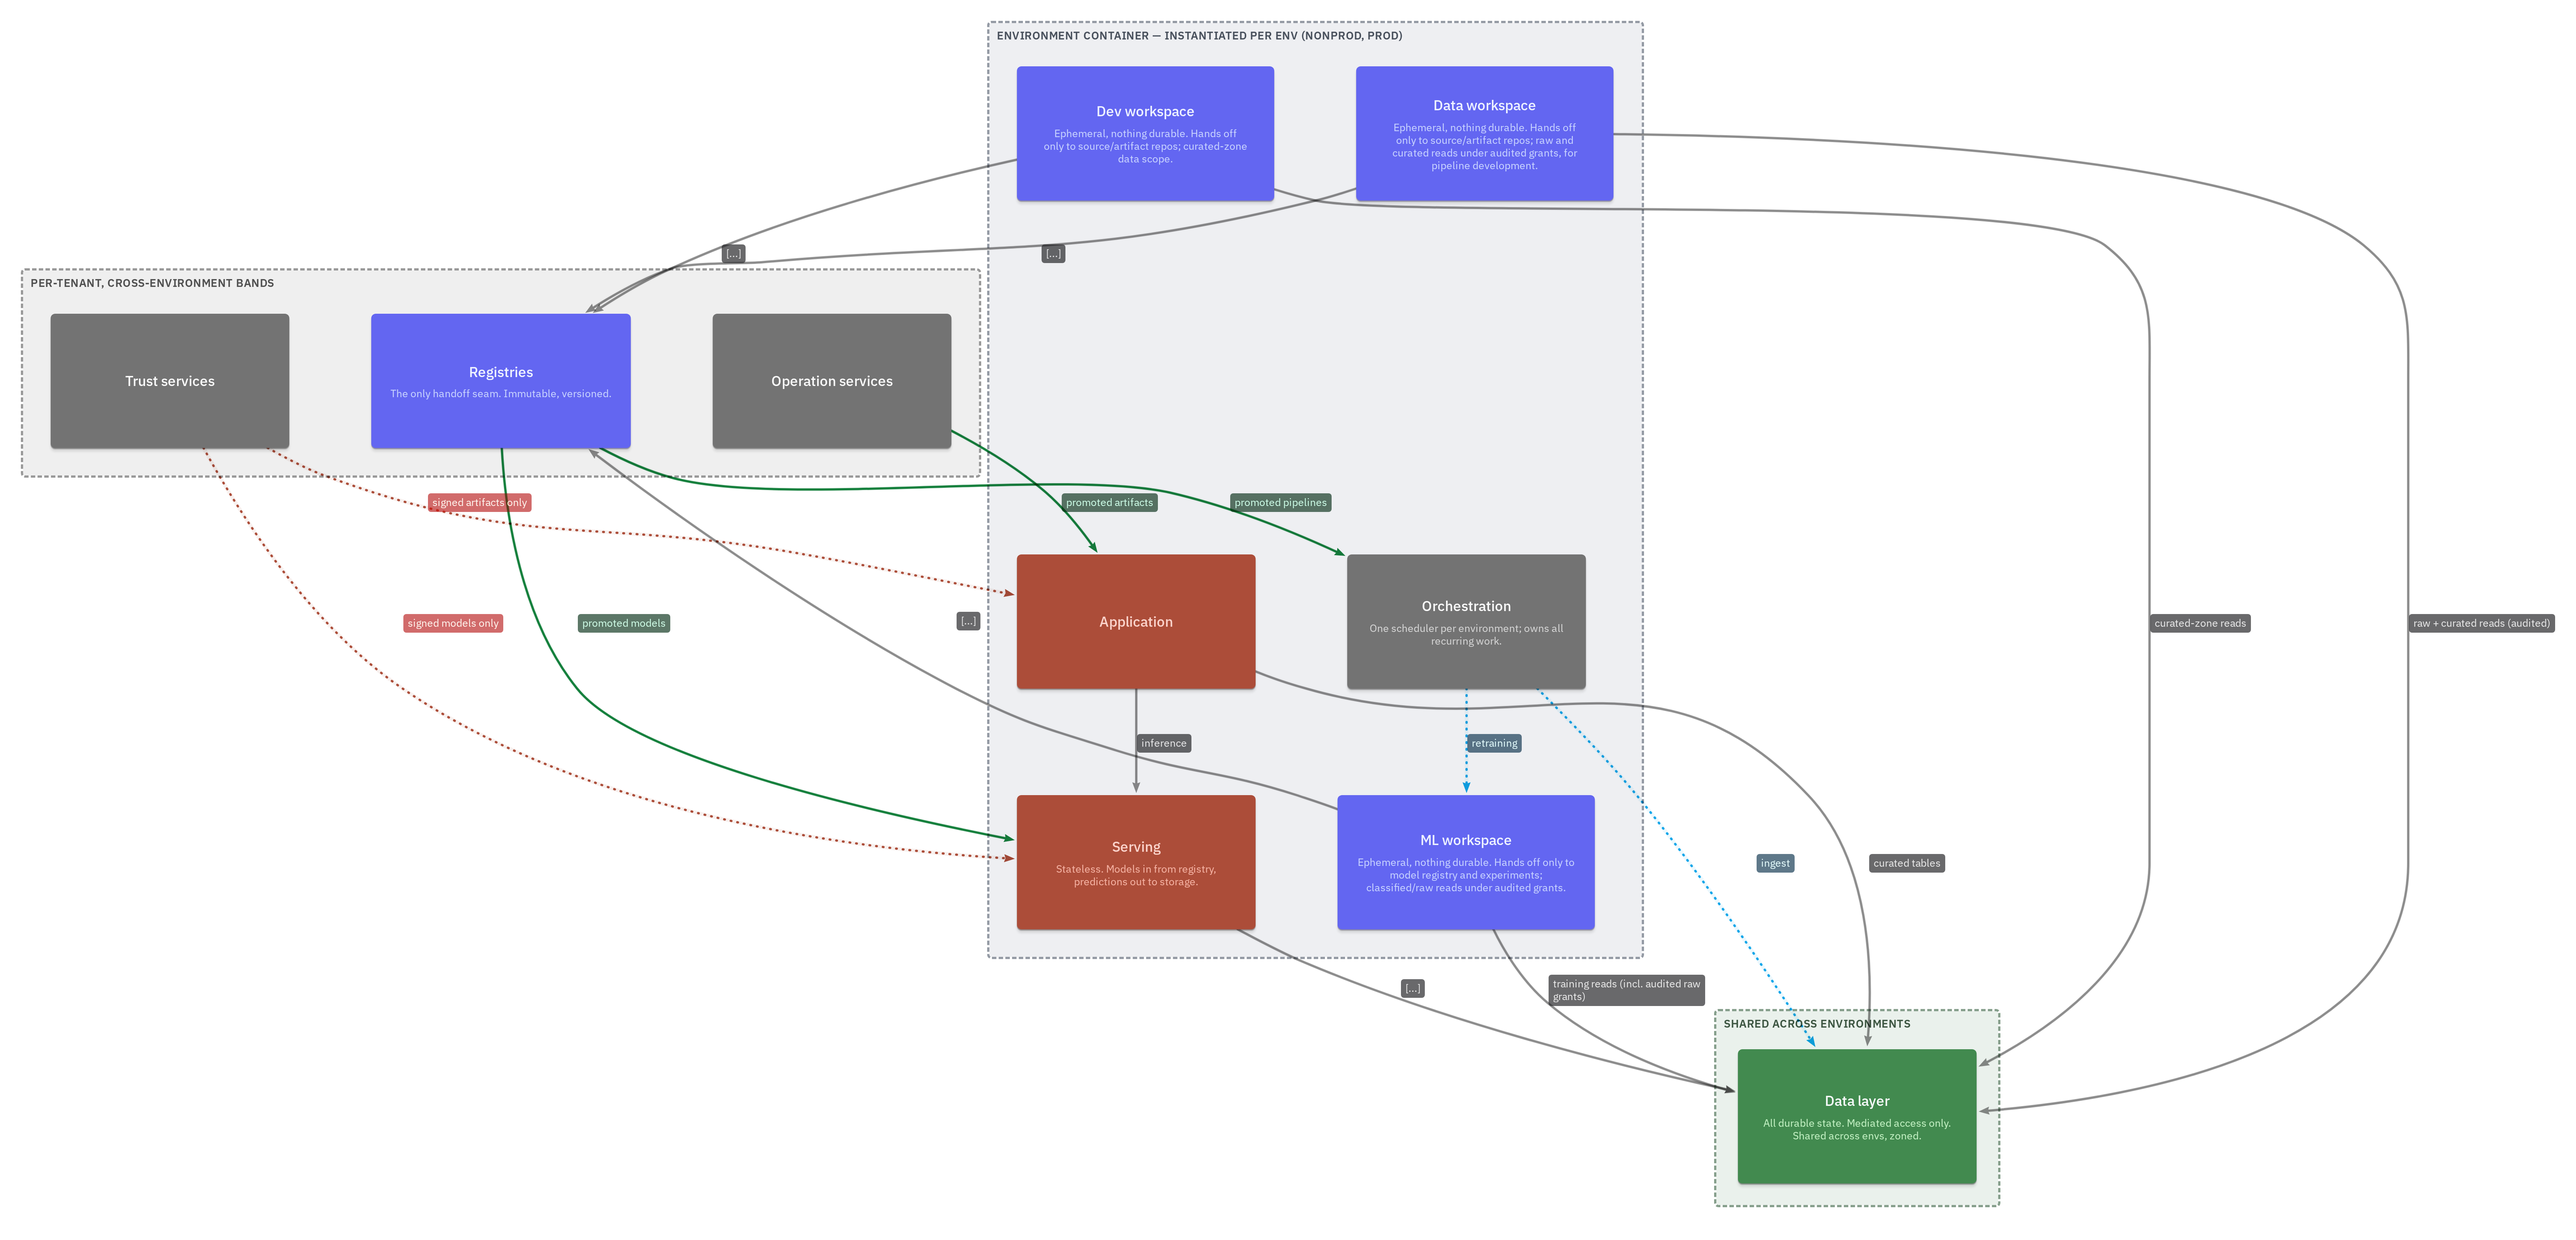
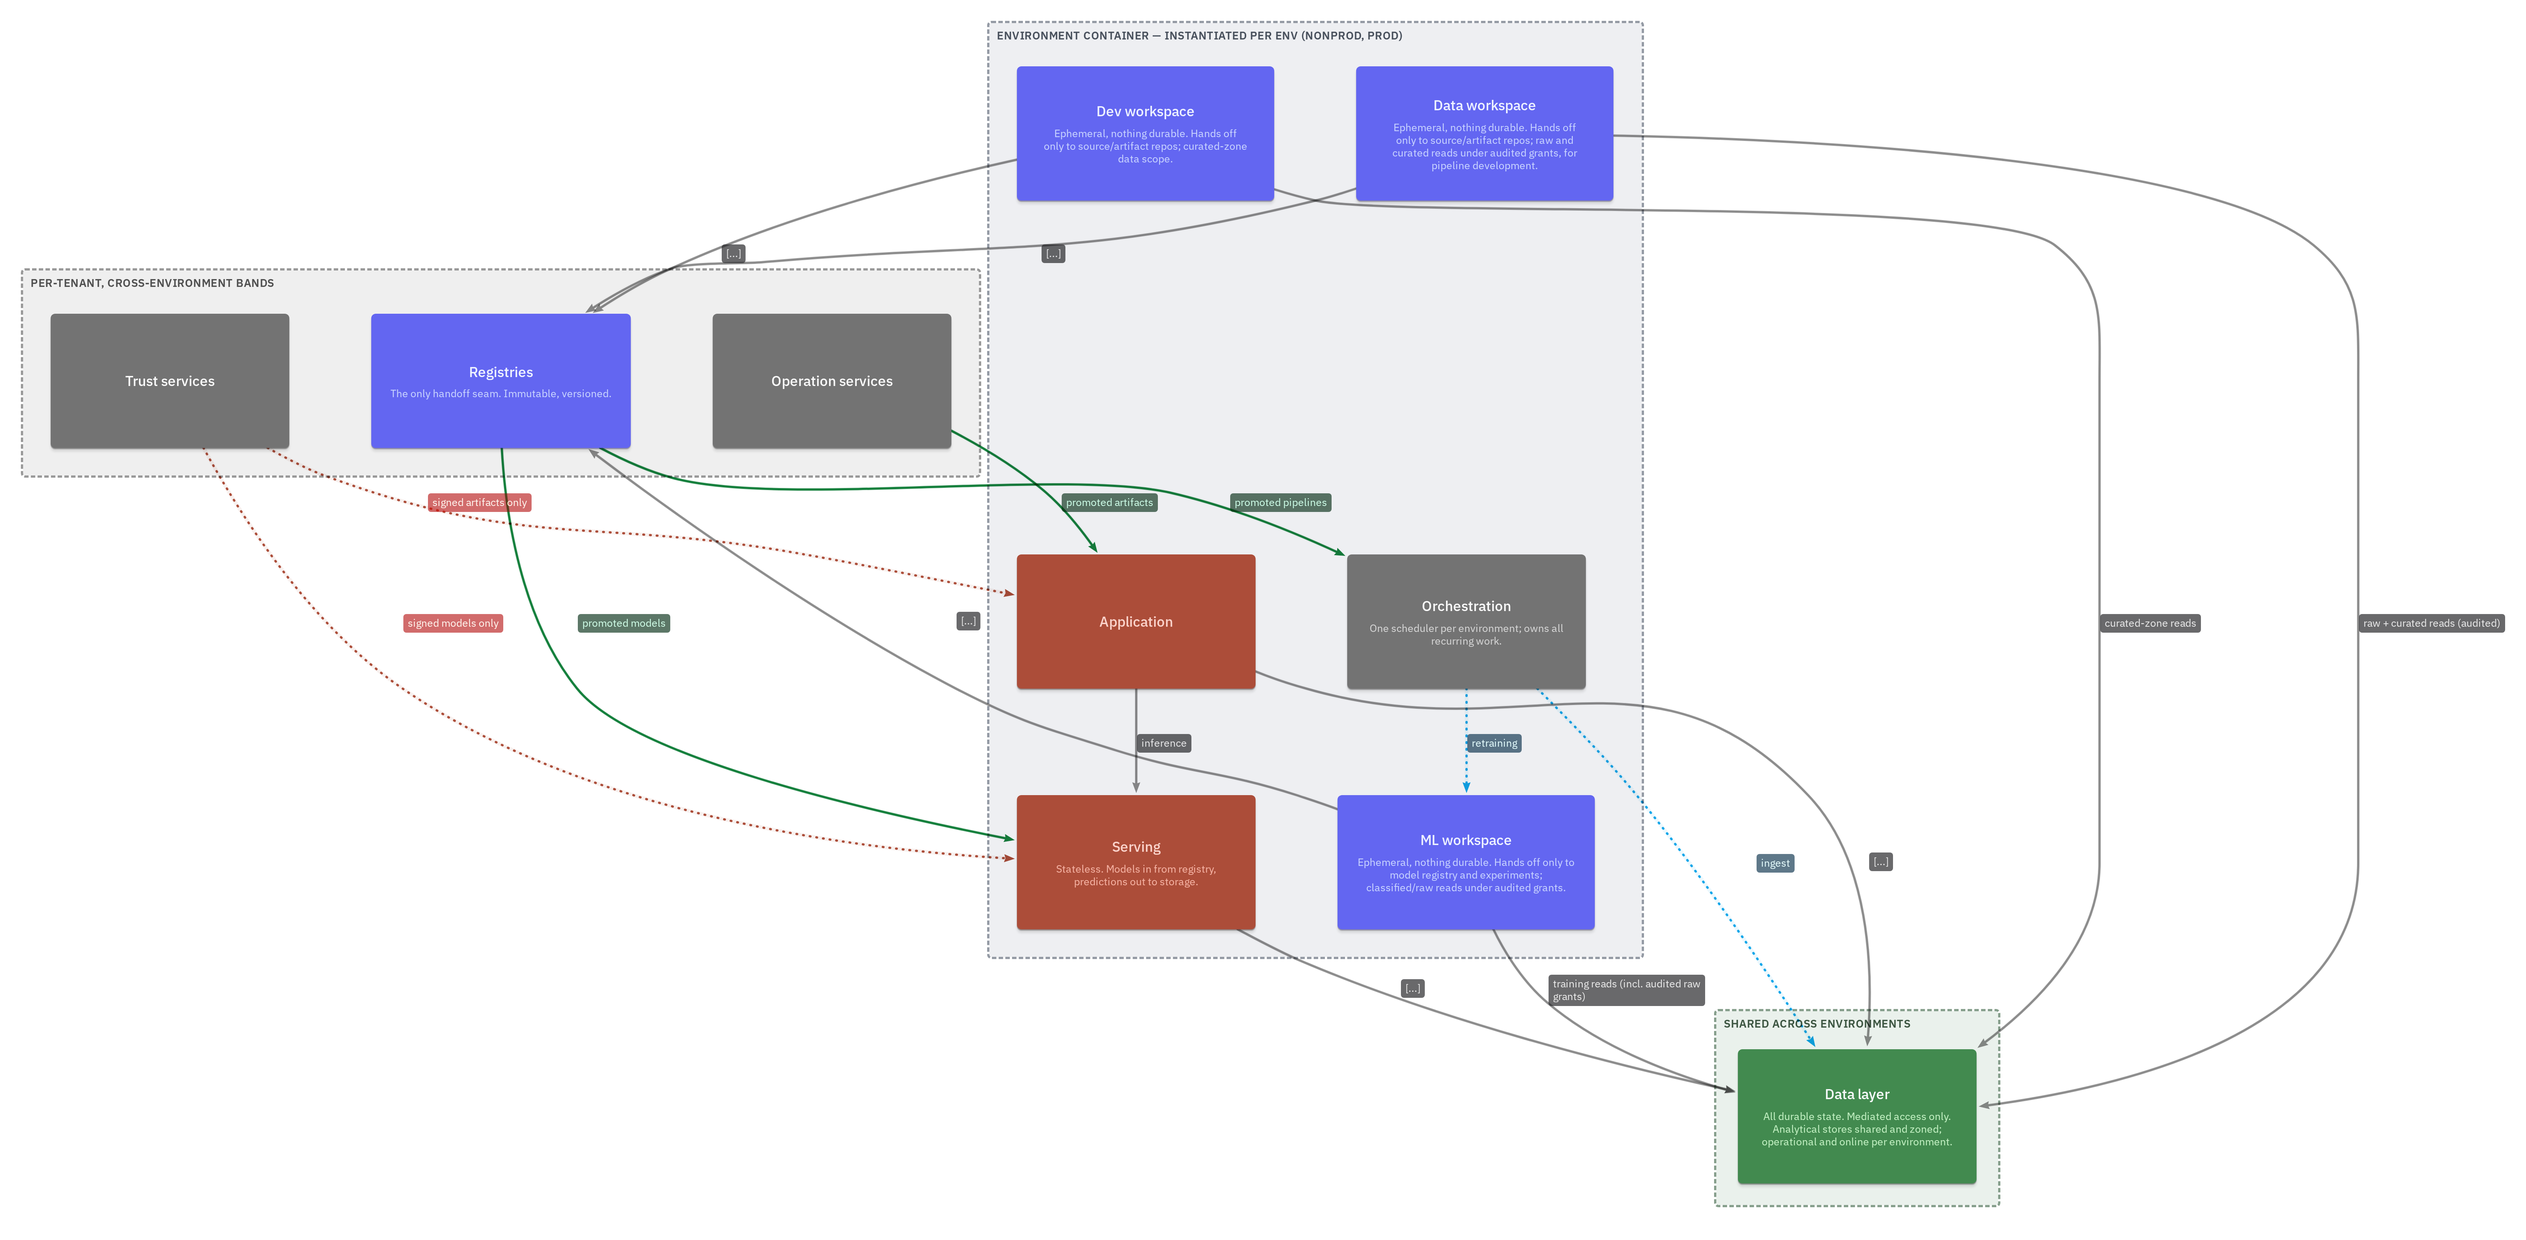
Data layer refined

diff --git a/adr/0006-shared-zoned-data-layer.md b/adr/0006-shared-zoned-data-layer.md
@@ -2,17 +2,90 @@
 id: ADR-0006
 status: proposed
 date: 2026-08-31
-affects: [KYP-T-DATA, KYP-T-DATA-22, KYP-T-DATA-25]
+affects: [KYP-T-DATA, KYP-T-DATA-03, KYP-T-DATA-04, KYP-T-DATA-07, KYP-T-DATA-22, KYP-T-DATA-25]
 ---
-# One data layer shared across environments, protected by zoning and access policy
+# One data layer: sharing follows store class, access follows purpose
+
 ## Context
-Data is not copied per environment.
+Copying the whole data layer per environment multiplies per-tenant cost and
+is unnecessary for most of it. But "one shared data layer" overstates the
+case: an application's operational state and the stores that serve runtimes
+are shared with nothing. Separately, a customer security review asks
+directly whether production data is used in non-production (CAIQ DG-06.1,
+ISO/IEC 27001 A.8.33), and that question is about testing software — not
+about the analytics the customer engaged us to perform.
+
 ## Decision
-Zones: raw, curated (writable only by prod orchestration identity), per-env sandbox.
-Nonprod reads per classification; writes only to its sandbox; grants audited; predictions
-env-labelled.
+
+### Sharing follows store.class
+- analytical (object store, tables) — one shared instance, zoned. Not
+  copied per environment; this is where the cost argument applies.
+- operational (application database) — one instance per environment.
+- online (indexes, feature and vector stores, predictions) — one instance
+  per environment, since they serve per-environment runtimes.
+- timeseries — the primary takes ingestion writes, consumers read through
+  a read-only path, and nonprod writes go to a separate instance. Which
+  topology provides that is a binding decision, not a model element.
+
+`shared` metadata therefore belongs on individual stores, never on the
+data layer as a whole.
+
+### Zones, in the shared analytical stores
+raw, curated, and one sandbox per environment.
+- curated is writable only by the prod orchestration identity
+- nonprod writes only to its own sandbox
+- every cross-zone grant is audited
+
+### Access follows purpose, not environment
+1. **Analytics and model development on the tenant's own data** is what the
+   platform is for. It uses real curated and raw data, governed by
+   classification and audited grants
+   ([ADR-0012](0012-split-dev-ml-workspaces.md),
+   [ADR-0015](0015-data-engineering-workspace.md)). Synthetic data is not a
+   substitute: a model for this customer's plant cannot be developed on
+   invented values.
+2. **Developing and testing the platform's own software** is a different
+   purpose and does not need real customer data. It uses synthetic data or
+   masked derivatives carrying no re-identifying fields. Real production
+   data for this purpose requires customer consent naming the datasets,
+   stating the purpose and carrying an expiry, recorded in the tenant
+   registry with every access audited.
+   - Serving and pipeline development: synthetic; where a real read is
+     unavoidable it is read-only against an immutable source.
+   - Application development: a masked dump into that environment's own
+     operational database; unmasked only under consent.
+
+### Limits that hold regardless
+- Nonprod never writes the curated zone.
+- Development reads are read-only against sources that cannot be modified
+  — the same principle as the object store's immutability row and the
+  time-series read path.
+- Data under consent stays in the tenant plane, is not copied to another
+  environment or tenant, and is deleted when the consent expires.
+
 ## Consequences
-Environment boundary becomes authorization correctness; shared failure domain across envs
-(managed object storage mitigates for cloud tenants); query engine needs workload isolation.
+- The environment boundary is authorization correctness rather than
+  infrastructure; the cross-zone grant log is the standing evidence.
+- The shared failure domain covers the analytical stores only. Managed
+  object storage mitigates it for cloud tenants; catalog, query engine and
+  the rest stay self-run.
+- The query engine needs workload isolation between the prod application
+  and nonprod exploration.
+- DG-06.1 has a precise answer: production data serves the analytics the
+  customer engaged us for, and is not used to test our software except
+  under the customer's documented, expiring authorization.
+- Someone must produce and maintain the synthetic and masked datasets.
+  Without them the default is unusable, consent becomes routine, and the
+  exception turns into a habit.
+- The tenant registry record
+  ([ADR-0013](0013-tenant-registry-record-schema.md)) grows a consents
+  section.
+
 ## Rejected alternatives
-Per-environment data copies.
+- Copying the analytical stores per environment: multiplies per-tenant
+  cost, which this decision and [ADR-0005](0005-two-environments.md) exist
+  to avoid.
+- Treating the whole data layer as shared: false for operational and
+  online stores, and it answers DG-06.1 with a bare "yes".
+- Synthetic data for model development: not a substitute for real plant
+  data, and it would forbid the platform's own purpose.

diff --git a/docs/design-brief.md b/docs/design-brief.md
@@ -93,12 +93,12 @@ modules; version pins.
 | Application | App runtime, API gateway, alerting (authority), public ingress | Stateless; the only public entry point. |
 | Orchestration | Ingest, transform, scoring, retraining trigger, idle scale | One scheduler per environment; owns all recurring work incl. scale-to-zero. |
 
-### Data layer — shared across environments, zoned ([ADR-0006](../adr/0006-shared-zoned-data-layer.md))
+### Data layer — analytical stores shared and zoned, the rest per environment ([ADR-0006](../adr/0006-shared-zoned-data-layer.md))
 
 | Group | Contains |
 |---|---|
 | Ingestion | OT gateway (boundary), connectors, data contracts, streams |
-| Storage | Object store (object-store contract, [ADR-0007](../adr/0007-object-store-contract-bindings.md)), tables, operational database, indexes (vector, feature), predictions (env-labelled) |
+| Storage | Shared and zoned: object store (object-store contract, [ADR-0007](../adr/0007-object-store-contract-bindings.md)), tables. Per environment: operational database, indexes (vector, feature), predictions |
 | Data management | Catalog, query engine, lineage, quality, env zones, classification, retention + tiering, access policy |
 
 Zone rules:
@@ -162,8 +162,8 @@ a gap until the target is set, not an accepted cost.
 
 | Accepted cost | What makes it acceptable | Evidence |
 |---|---|---|
-| The data layer is shared across environments ([ADR-0006](../adr/0006-shared-zoned-data-layer.md)) | Zoning: the curated zone is writable only by the prod orchestration identity; nonprod writes only its own sandbox; access policy enforces on the catalog, the query engine and the operational database | Cross-zone grant log in the audit trail; scenario [Q-03](arc42/10-quality-requirements.md) |
-| Therefore one failure domain spans environments | Managed object storage for cloud tenants; catalog, database, indexes and query engine stay self-run | Per-store DR posture ([ADR-0014](../adr/0014-data-layer-storage-layers.md), proposed). **Open:** RPO/RTO per tenant class ([Q-06](arc42/10-quality-requirements.md)) |
+| The analytical stores are shared across environments ([ADR-0006](../adr/0006-shared-zoned-data-layer.md)) | Zoning: the curated zone is writable only by the prod orchestration identity; nonprod writes only its own sandbox; access policy enforces on the catalog, the query engine and the operational database. Operational and online stores are per environment, so they are not exposed at all | Cross-zone grant log in the audit trail; scenario [Q-03](arc42/10-quality-requirements.md) |
+| Therefore one failure domain spans environments, for the analytical stores | Managed object storage for cloud tenants; catalog and query engine stay self-run | Per-store DR posture ([ADR-0014](../adr/0014-data-layer-storage-layers.md), proposed). **Open:** RPO/RTO per tenant class ([Q-06](arc42/10-quality-requirements.md)) |
 | One query engine serves the prod application and nonprod exploration | Workload isolation between the two | **Open:** isolation target not yet set ([Q-07](arc42/10-quality-requirements.md)) |
 | No formal stage environment ([ADR-0005](../adr/0005-two-environments.md)) | Full-scale rehearsal is a nonprod run against curated data, read-only | Nonprod cannot write curated by construction (same control as row 1) |
 
@@ -174,8 +174,15 @@ what an auditor would be shown — belongs in
 ## Open decisions
 - Request-response vs batch inference (blocks online feature path) — oldest open fork
 - Semantic layer above query engine (only if >1 consumer defines same KPI)
-- Availability targets per stateful component; DR targets (RPO/RTO) per tenant class
-- Tenant lifecycle (provision/suspend/offboard with data export) in control plane
+- Business continuity and disaster recovery — TBD, not yet addressed:
+  availability targets per stateful component; RPO/RTO per tenant class;
+  whether geographically resilient hosting is offered; and the interval at
+  which recovery plans are tested. Until these exist, the resiliency
+  questions in a customer security review have no answer.
+- Tenant lifecycle in the control plane (KYP-C-FLEET-04, `status 'gap'`) —
+  provision, suspend, and offboard. Offboarding must cover data export,
+  secure deletion of customer data across every store and backup, and a
+  published exit procedure a customer can be shown; none of it exists yet.
 - Analyst workspace (own area vs a home inside dev workspace)
 - Control-plane residency. Today one control plane serves all tenants.
   That is defensible because it holds no customer data (REQ-KYP-C-07):

diff --git a/docs/requirements/KYP-C.md b/docs/requirements/KYP-C.md
@@ -14,7 +14,7 @@ level until that changes.
 | REQ-KYP-C-03 | Golden artifacts MUST be signed and carry an SBOM before any tenant can pull them. | — |
 | REQ-KYP-C-04 | The tenant registry MUST be the single authority for per-tenant resolution: class, binding resolution, siteClass per site, ingestion mode, enabled modules, version pins. | [ADR-0013](../../adr/0013-tenant-registry-record-schema.md) (proposed) |
 | REQ-KYP-C-05 | Staff access MUST enter only via the staff identity federation. | — |
-| REQ-KYP-C-06 | Tenant lifecycle (provision, suspend, offboard with data export) — GAP, requirements to be defined with the lifecycle decision. | — |
+| REQ-KYP-C-06 | Tenant lifecycle (provision, suspend, offboard) — GAP. Offboarding MUST cover data export, secure deletion of customer data across every store and backup, and a published exit procedure. Requirements to be defined with the lifecycle decision. | — |
 | REQ-KYP-C-07 | The control plane MUST NOT receive or store customer data or anything derived from it (logs, payloads, model weights); fleet health receives aggregated status only. Exception only by explicit customer consent, scoped to named data, a stated purpose and a duration, recorded in the tenant registry, with every transfer audited. Consent is never a default and never survives its duration. | — |
 
 Quality: [Q-02](../arc42/10-quality-requirements.md) (blast radius).

diff --git a/docs/arc42/09-architecture-decisions.md b/docs/arc42/09-architecture-decisions.md
@@ -15,7 +15,7 @@ superseded. Nothing is accepted yet — the baseline is under review.
 | [ADR-0003](../../adr/0003-generic-sync-layer.md) | Generic sync layer, not a named broker | KYP-T-SYNC-01, KYP-E |
 | [ADR-0004](../../adr/0004-registries-only-handoff.md) | Registries are the only producer→runtime handoff | KYP-T-REG, KYP-T-DEVWS, KYP-T-MLWS |
 | [ADR-0005](../../adr/0005-two-environments.md) | Two environments: nonprod and prod | KYP-T |
-| [ADR-0006](../../adr/0006-shared-zoned-data-layer.md) | One shared, zoned data layer across environments | KYP-T-DATA |
+| [ADR-0006](../../adr/0006-shared-zoned-data-layer.md) | Data layer: sharing follows store class, access follows purpose | KYP-T-DATA and its stores |
 | [ADR-0007](../../adr/0007-object-store-contract-bindings.md) | Object store contract in model; products as bindings | KYP-T-DATA-01 |
 | [ADR-0009](../../adr/0009-architecture-toolchain.md) | Taxonomy + arc42 + LikeC4 + CI gate; Notion links only | — |
 | [ADR-0010](../../adr/0010-alerting-authority.md) | Tenant alerting authoritative; edge is a replica | KYP-T-APP-03, KYP-E-RT-04 |

diff --git a/architecture/taxonomy.md b/architecture/taxonomy.md
@@ -111,7 +111,9 @@ Every metadata key used in the model must be listed here.
 - optional ∈ {true} — component deployed only at some sites (edge)
 - envScoped ∈ {true} — area belongs to the environment container (§3);
   absent on an area = it is a band
-- shared ∈ {across-envs} — one instance serves all environments (data layer)
+- shared ∈ {across-envs} — on a store: one instance serves all
+  environments. Analytical stores only; operational and online stores are
+  per environment (ADR-0006)
 - status ∈ {gap} — declared in the architecture but not yet designed
 
 ## 6. Instances (nouns, never elements)
